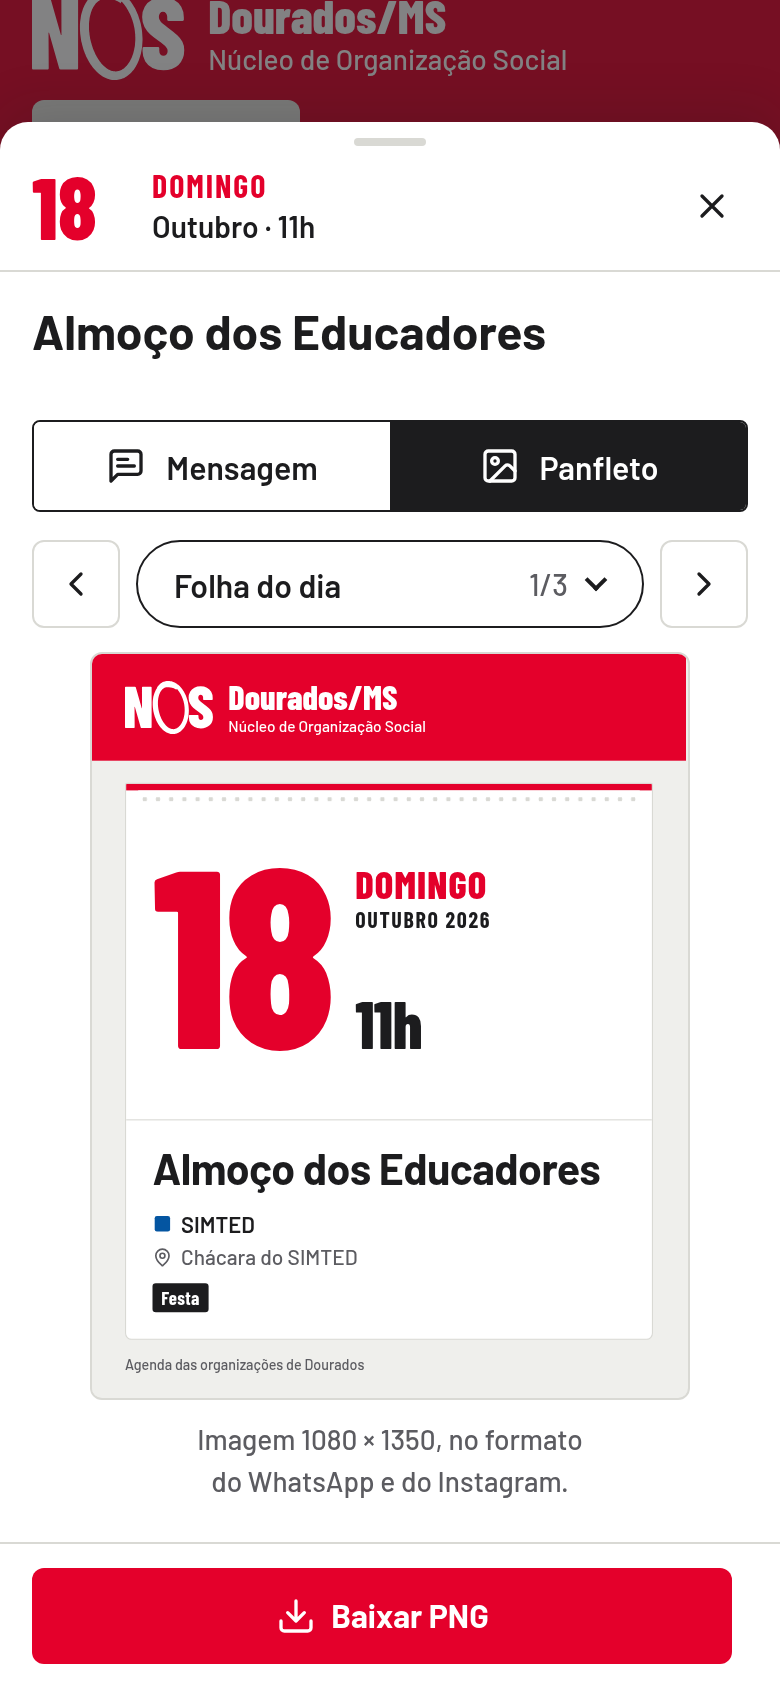
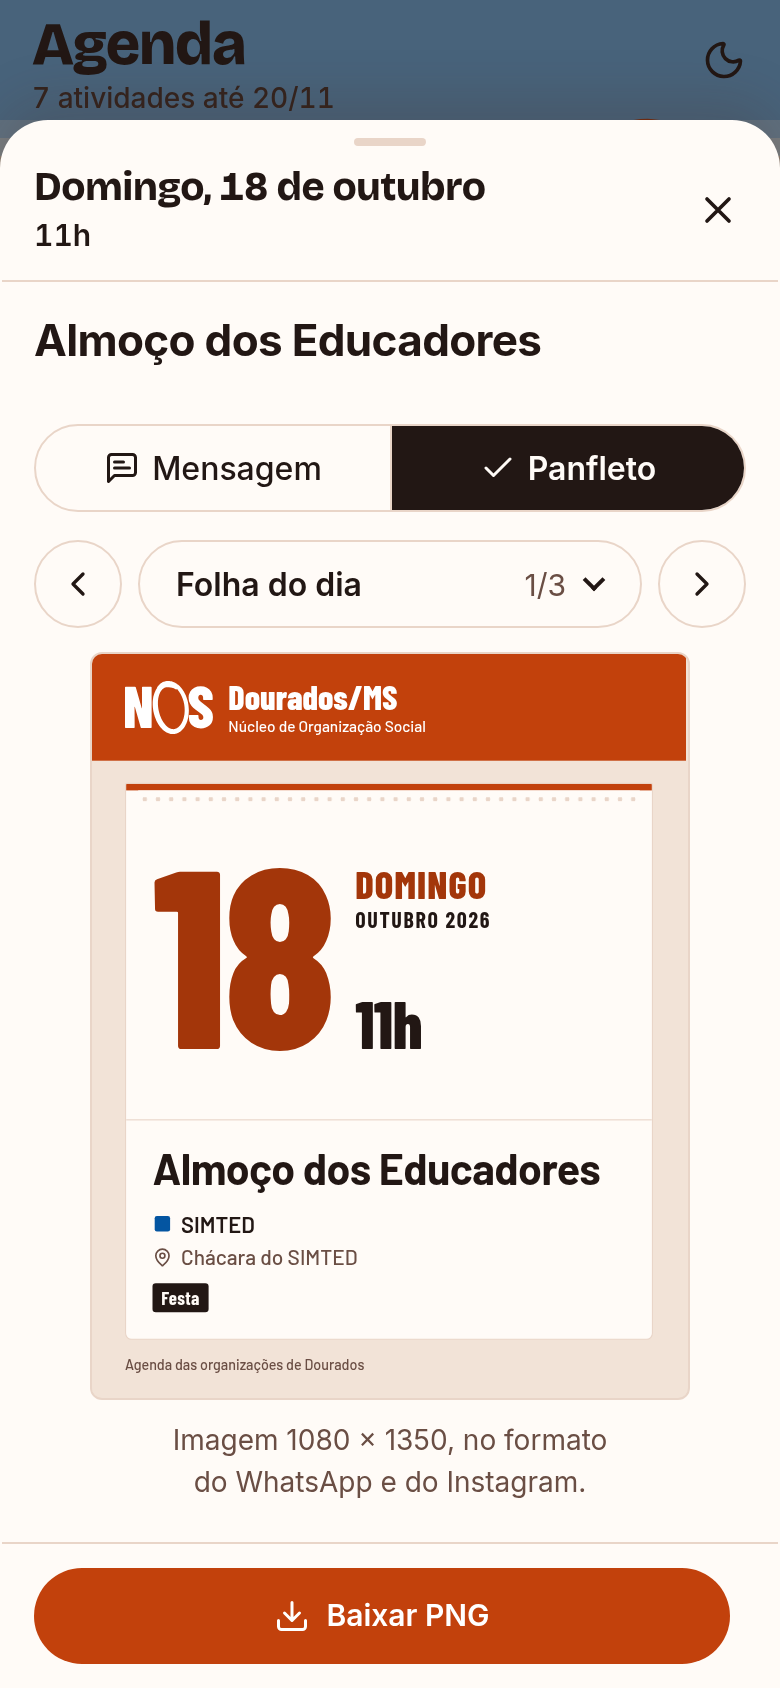
Finish review fixes: the door's live line, the desk filters, quieter selection
From the impeccable finish review (disposition: fix):
- The agenda's door on phones carries a live line, what comes after the next activity ("Depois,
  sáb 31/10, 21h: …"); its description shows only while there is nothing to list.
- On the desk, the organization filter sits beside Lista | Mês and the group chips wrap under both
  from the left edge (no indented second row).
- The activity open in the panel and the chosen day in the month take a quiet soft-ink ring instead
  of the 2px ink frame and the ink disc: the urucum loop stays the strongest mark; focus keeps the
  strong ring. In the dark the cards' shadow is a transparent one, so the ring composes with it.
- The desk month's entries wrap to three lines (with a real space between the time and the title,
  so words break where they should, for screen readers too), instead of eight characters.
- The neighbouring months' numerals take the soft ink at a lighter weight (4.5:1 still).
- Comércio's paused list: the category is a quiet tag after the offer, not a label over the name.
- The install screenshots are re-rendered from the built pages (stamped).

diff --git a/css/style.css b/css/style.css
@@ -587,7 +587,8 @@ body { padding-bottom: calc(64px + env(safe-area-inset-bottom)); }
   .event-card:hover { background: var(--role-card-hover); }
   .event-card:hover .event-title { text-decoration: underline; text-decoration-thickness: 1px; text-underline-offset: 3px; }
 }
-.event-card.is-selected { box-shadow: 0 0 0 2px var(--role-ink), var(--role-card-shadow); }
+/* The activity open in the panel: a quiet soft-ink ring (the strong ring is focus's). */
+.event-card.is-selected { box-shadow: 0 0 0 1.5px var(--role-ink-soft), var(--role-card-shadow); }
 .event-card.is-selected:focus-visible { outline-offset: 4px; }
 .event-head { display: flex; align-items: center; gap: 8px; }
 .event-title { flex: 1 1 0; min-width: 0; font-size: 1.0625rem; line-height: 1.3; font-weight: 600; letter-spacing: -0.01em; text-wrap: pretty; }
@@ -704,8 +705,9 @@ body { padding-bottom: calc(64px + env(safe-area-inset-bottom)); }
   font-variant-numeric: tabular-nums;
 }
 .day.is-past .day-num { color: var(--role-ink-soft); }
-.day.is-outside .day-num { color: color-mix(in srgb, var(--role-ink-soft) 72%, var(--role-card)); }
-.day.is-selected .day-num { background: var(--role-ink); color: var(--role-on-ink); }
+/* The neighbouring months' days: soft ink (4.5:1 still) and a lighter weight set them apart. */
+.day.is-outside .day-num { color: var(--role-ink-soft); font-weight: 500; }
+.day.is-selected .day-num { box-shadow: inset 0 0 0 1.5px var(--role-ink-soft); }
 /* Today underlined by hand; the next activity's day circled. */
 .day-num > .hand--underline { left: 18%; bottom: 1px; width: 64%; height: 7px; }
 .day-num > .hand--loop { left: -6px; top: -5px; width: calc(100% + 12px); height: calc(100% + 10px); }
@@ -999,26 +1001,27 @@ body { padding-bottom: calc(64px + env(safe-area-inset-bottom)); }
   grid-template-columns: minmax(0, 1fr) 44px;
   column-gap: 8px;
   align-items: start;
-  padding: 14px 10px 8px 16px;
+  padding: 16px 10px 8px 16px;
   border: 1px solid var(--role-card-border);
   border-radius: var(--radius-card);
   background: var(--role-card);
   box-shadow: var(--role-card-shadow);
 }
-.biz-category { grid-column: 1 / -1; grid-row: 1; justify-self: start; margin-bottom: 8px; }
-.biz-main { grid-column: 1; grid-row: 2; display: flex; flex-direction: column; align-items: flex-start; gap: 4px; min-width: 0; }
+.biz-main { grid-column: 1; grid-row: 1; display: flex; flex-direction: column; align-items: flex-start; gap: 4px; min-width: 0; }
+/* The category, as a quiet tag after the offer (the chips filter by it). */
+.biz-main > .biz-category { margin-top: 4px; }
 .biz-main > * { max-width: 100%; }
 .biz-name { font: 750 1.25rem/1.2 var(--font-display); letter-spacing: -0.015em; overflow-wrap: anywhere; }
 .biz-subtitle { font-size: 0.9375rem; font-weight: 500; line-height: 1.3; color: var(--role-ink-soft); }
 .biz-city .city-tag { margin: 0; }
 .biz-main > .biz-offer { margin-top: 2px; font-size: 0.9375rem; line-height: 1.45; overflow-wrap: break-word; text-wrap: pretty; }
 /* "Indicar no WhatsApp": the share circle on phones (its name in aria-label), written out from 760px. */
-.biz-share { grid-column: 2; grid-row: 2; display: grid; place-items: center; width: 44px; height: 44px; margin-top: -6px; border-radius: 50%; color: var(--role-ink); text-decoration: none; }
+.biz-share { grid-column: 2; grid-row: 1; display: grid; place-items: center; width: 44px; height: 44px; margin-top: -8px; border-radius: 50%; color: var(--role-ink); text-decoration: none; }
 .biz-share .icon { width: 20px; height: 20px; }
 .biz-share-text { display: none; }
 @media (hover: hover) { .biz-share:hover, .contact-call:hover { background: var(--role-wash); } .contact-value:hover { text-decoration-thickness: 2px; } }
 
-.biz-contacts { grid-column: 1 / -1; grid-row: 3; margin: 8px 0 0; border-top: 1px solid var(--role-line); }
+.biz-contacts { grid-column: 1 / -1; grid-row: 2; margin: 8px 0 0; border-top: 1px solid var(--role-line); }
 .contact { display: grid; grid-template-columns: 5.5rem minmax(0, 1fr); column-gap: 10px; align-items: center; min-height: 44px; }
 .contact + .contact { border-top: 1px solid var(--role-line); }
 .contact dt { font-size: 0.8125rem; font-weight: 500; color: var(--role-ink-soft); }
@@ -1119,7 +1122,9 @@ body { padding-bottom: calc(64px + env(safe-area-inset-bottom)); }
 .door-name { font: 700 1.125rem/1.33 var(--font-display); letter-spacing: -0.02em; }
 /* Secondary text on the door's tint: its hue mixed into the ink, never a grey. */
 .door-line { font-size: 0.875rem; line-height: 1.36; font-weight: 600; color: var(--role-ink); text-wrap: pretty; }
-.door-text { font-size: 0.8125rem; line-height: 1.4; color: color-mix(in srgb, var(--door-text) 55%, var(--role-ink)); text-wrap: pretty; }
+.door-text, .door-next { font-size: 0.8125rem; line-height: 1.4; color: color-mix(in srgb, var(--door-text) 55%, var(--role-ink)); text-wrap: pretty; }
+/* The live line (its date first): three lines at most. */
+.door-next { display: -webkit-box; overflow: hidden; -webkit-box-orient: vertical; -webkit-line-clamp: 3; }
 .door-more { display: none; }
 
 /* ---------- Wider phones and tablets ---------- */
@@ -1244,16 +1249,16 @@ body { padding-bottom: calc(64px + env(safe-area-inset-bottom)); }
   .door-name { font-size: 1.1875rem; }
   .door-line { margin-top: 4px; font-size: 1.125rem; line-height: 1.4; letter-spacing: -0.012em; }
   .door-text { font-size: 0.9375rem; line-height: 1.45; }
+  .door-next { display: none; } /* "Também na agenda" lists it */
   .door-more { display: inline-flex; align-items: center; gap: 4px; min-height: 32px; margin-top: 4px; color: var(--door-text); font-weight: 600; }
   .door-more .icon { width: 18px; height: 18px; }
 
   /* Comércio: each business is a row from here, the contacts in their own column. */
   .biz { grid-template-columns: minmax(0, 1fr) minmax(15rem, 19rem); column-gap: 20px; padding: 16px 16px 12px 20px; }
-  .biz-category { grid-column: 1; }
-  .biz-main { grid-column: 1; grid-row: 2; }
+  .biz-main { grid-column: 1; grid-row: 1; }
   .biz-share {
     grid-column: 1;
-    grid-row: 3;
+    grid-row: 2;
     justify-self: start;
     display: inline-flex;
     align-items: center;
@@ -1268,7 +1273,7 @@ body { padding-bottom: calc(64px + env(safe-area-inset-bottom)); }
   }
   .biz-share .icon { width: 18px; height: 18px; }
   .biz-share-text { display: inline; }
-  .biz-contacts { grid-column: 2; grid-row: 1 / span 3; margin: 0; border-top: 0; }
+  .biz-contacts { grid-column: 2; grid-row: 1 / span 2; margin: 0; border-top: 0; }
   .contact { grid-template-columns: 5.25rem minmax(0, 1fr); min-height: 40px; }
   .contact-value { min-height: 40px; }
   .contact-call { width: 40px; height: 40px; }
@@ -1292,20 +1297,19 @@ body { padding-bottom: calc(64px + env(safe-area-inset-bottom)); }
 
   .notice { margin: 0 0 16px; }
   .view-tabs { margin: 0; }
-  /* The chips wrap beside the organization select, not under it. */
-  .filters {
-    display: grid;
-    grid-template-columns: auto auto minmax(0, 1fr);
-    align-items: start;
-    column-gap: 8px;
-    overflow: visible;
-    padding: 12px 0 4px;
-    -webkit-mask-image: none;
-    mask-image: none;
-  }
-  .filters-divider { margin-top: 10px; }
+  /* The chips wrap on the desk instead of scrolling. */
+  .filters { overflow: visible; -webkit-mask-image: none; mask-image: none; }
   .chips { flex-wrap: wrap; column-gap: 8px; row-gap: 0; }
   .view { padding: 0; }
+  /* The agenda: the organization beside Lista | Mês, the groups' chips under both, from the left edge
+     (the filters' box steps aside so its pill and chips join the column's grid). */
+  .page-agenda .pad-col { display: grid; grid-template-columns: auto minmax(0, 1fr); align-items: center; column-gap: 12px; }
+  .page-agenda .pad-col > .notice, .page-agenda .pad-col > .view { grid-column: 1 / -1; }
+  .page-agenda .view-tabs { width: 26.25rem; max-width: none; }
+  .page-agenda .filters { display: contents; }
+  .page-agenda .filters-divider { display: none; }
+  .page-agenda .org-pill { grid-column: 2; justify-self: start; }
+  .page-agenda .chips { grid-column: 1 / -1; padding-top: 8px; }
   .event-card { padding: 16px 18px 17px 20px; }
 
   .sheet-backdrop { display: none; }
@@ -1391,10 +1395,9 @@ body { padding-bottom: calc(64px + env(safe-area-inset-bottom)); }
     padding: 6px 0 8px;
   }
   .day + .day { border-left: 1px solid var(--role-line); }
-  .day.is-selected { box-shadow: inset 0 0 0 2px var(--role-ink); }
+  .day.is-selected { box-shadow: inset 0 0 0 1.5px var(--role-ink-soft); }
   .day.is-selected:focus-visible { outline-offset: -6px; }
-  .day.is-selected .day-num { background: none; color: inherit; }
-  .day.is-selected.is-past .day-num { color: var(--role-ink-soft); }
+  .day.is-selected .day-num { box-shadow: none; }
   .day-top { flex-direction: row; flex-wrap: wrap; align-content: flex-start; align-items: center; gap: 2px 6px; min-height: 2rem; padding: 0 6px; }
   .day-num { min-width: 2rem; }
   /* A holiday's name on its own line under the numeral, two lines at most. Its whole week makes room
@@ -1416,9 +1419,11 @@ body { padding-bottom: calc(64px + env(safe-area-inset-bottom)); }
   .week.has-holiday .day { min-height: max(calc(9.6rem + 2px), calc(22px + 5.1rem + var(--week-lanes, 0) * (1.25rem + 2px))); }
   /* One-day entries start under the bars that cross that day (and only those). */
   .day-items { flex-direction: column; flex-wrap: nowrap; align-items: stretch; gap: 2px; margin-top: calc(var(--lanes, 0) * (1.25rem + 2px)); padding: 0; }
-  .cell-item { display: flex; align-items: center; gap: 6px; min-width: 0; padding: 0 8px; font-size: 0.8125rem; line-height: 1.3; text-align: left; }
-  .cell-item-text { display: block; min-width: 0; overflow: hidden; text-overflow: ellipsis; white-space: nowrap; }
-  .cell-item-time { margin-right: 4px; font-weight: 700; }
+  /* Each entry on three lines at most, so the month reads without opening every day. */
+  .cell-item { display: flex; align-items: flex-start; gap: 6px; min-width: 0; padding: 0 8px; font-size: 0.8125rem; line-height: 1.3; text-align: left; }
+  .cell-item .cell-mark { margin-top: 0.4em; }
+  .cell-item-text { display: -webkit-box; min-width: 0; overflow: hidden; overflow-wrap: break-word; hyphens: auto; -webkit-box-orient: vertical; -webkit-line-clamp: 3; }
+  .cell-item-time { font-weight: 700; }
   .day.is-past .cell-item-text { color: var(--role-ink-soft); }
   .cell-item.is-cancelled .cell-item-text { color: var(--role-ink-soft); text-decoration: line-through; }
   .day-more { padding: 0 8px; font: 600 0.75rem/1.3 var(--font-ui); text-align: left; }

diff --git a/index.html b/index.html
@@ -135,7 +135,10 @@
         <a class="door door--agenda" href="calendario.html">
           <span class="door-head"><svg class="icon" viewBox="0 0 24 24" fill="none" stroke="currentColor" stroke-width="2" stroke-linecap="round" stroke-linejoin="round" aria-hidden="true" focusable="false"><rect width="18" height="18" x="3" y="4" rx="2"/><path d="M8 2v4M16 2v4M3 10h18M8 14h.01M12 14h.01M16 14h.01M8 18h.01M12 18h.01M16 18h.01"/></svg><span class="door-name">Agenda</span></span>
           <span class="door-line" id="door-agenda-line">As atividades das organizações</span>
-          <span class="door-text">Assembleias, atos, feiras e encontros, com mensagem e panfleto prontos para o WhatsApp.</span>
+          <!-- The live line: what comes after the next activity (js/home.js; phones only, the desk lists it
+               under "Também na agenda"). The text under it stays only while there is nothing to show. -->
+          <span class="door-next" id="door-agenda-next" hidden></span>
+          <span class="door-text" id="door-agenda-text">Assembleias, atos, feiras e encontros, com mensagem e panfleto prontos para o WhatsApp.</span>
           <span class="door-more">Abrir a agenda<svg class="icon" viewBox="0 0 24 24" fill="none" stroke="currentColor" stroke-width="2" stroke-linecap="round" stroke-linejoin="round" aria-hidden="true" focusable="false"><path d="M5 12h14"/><path d="m12 5 7 7-7 7"/></svg></span>
         </a>
         <!-- Comércio is paused while the businesses are collected and organized: "Em breve" and the reason

diff --git a/js/home.js b/js/home.js
@@ -132,10 +132,21 @@ function renderNext(next, upcoming) {
   card.replaceChildren(...parts);
 }
 
+// The agenda's door: what is ahead, and what comes after the next one ("Depois, sáb 31/10, 21h: …"); its description
+// stays only while there is nothing to list.
+function renderDoor(upcoming) {
+  $('door-agenda-line').textContent = agendaSummary(events, today);
+  const after = upcoming[1];
+  const line = $('door-agenda-next');
+  line.hidden = !after;
+  if (after) line.textContent = `Depois, ${[shortDate(after.date), timeOf(after)].filter(Boolean).join(', ')}: ${after.title}`;
+  $('door-agenda-text').hidden = upcoming.length > 0;
+}
+
 function render() {
   const upcoming = upcomingEvents(events, today);
   renderNext(upcoming[0] || null, upcoming);
-  $('door-agenda-line').textContent = agendaSummary(events, today);
+  renderDoor(upcoming);
 }
 
 async function load() {

diff --git a/js/comercio.js b/js/comercio.js
@@ -150,8 +150,6 @@ function businessItem(biz) {
   card.id = biz.id;
   card.setAttribute('aria-labelledby', `${biz.id}-name`);
 
-  if (biz.category) card.append(el('p', 'biz-category tag', biz.category));
-
   const main = el('div', 'biz-main');
   const name = el('h3', 'biz-name', biz.name);
   name.id = `${biz.id}-name`;
@@ -167,6 +165,7 @@ function businessItem(biz) {
     offer.append(breakable(biz.offer));
     main.append(offer);
   }
+  if (biz.category) main.append(el('p', 'biz-category tag', biz.category));
   card.append(main);
 
   // "Indicar": the business, ready to send to a WhatsApp group. A glyph on phones, written out on the desk.

diff --git a/css/theme.css b/css/theme.css
@@ -214,7 +214,7 @@
   --role-card: var(--color-terra-roxa-card);
   --role-card-hover: var(--color-terra-roxa-card-hover);
   --role-card-border: var(--color-terra-roxa-line);
-  --role-card-shadow: none;
+  --role-card-shadow: 0 0 0 0 transparent; /* not `none`: style.css adds rings to it in lists */
   --role-sheet-shadow: 0 -8px 28px color-mix(in srgb, var(--color-night-shade) 60%, transparent);
   --role-fill: var(--color-terra-roxa-fill);
   --role-line: var(--color-terra-roxa-line);

diff --git a/js/month.js b/js/month.js
@@ -61,7 +61,7 @@ function renderItem(ev) {
   item.append(el('span', 'cell-mark'));
   const text = el('span', 'cell-item-text');
   const time = startTime(ev) || (ev.endTime != null || ev.endTimeRaw ? formatTimeRange(ev) : '');
-  if (time) text.append(el('span', 'cell-item-time', time));
+  if (time) text.append(el('span', 'cell-item-time', time), ' ');
   text.append(document.createTextNode(ev.title));
   item.append(text);
   return item;
